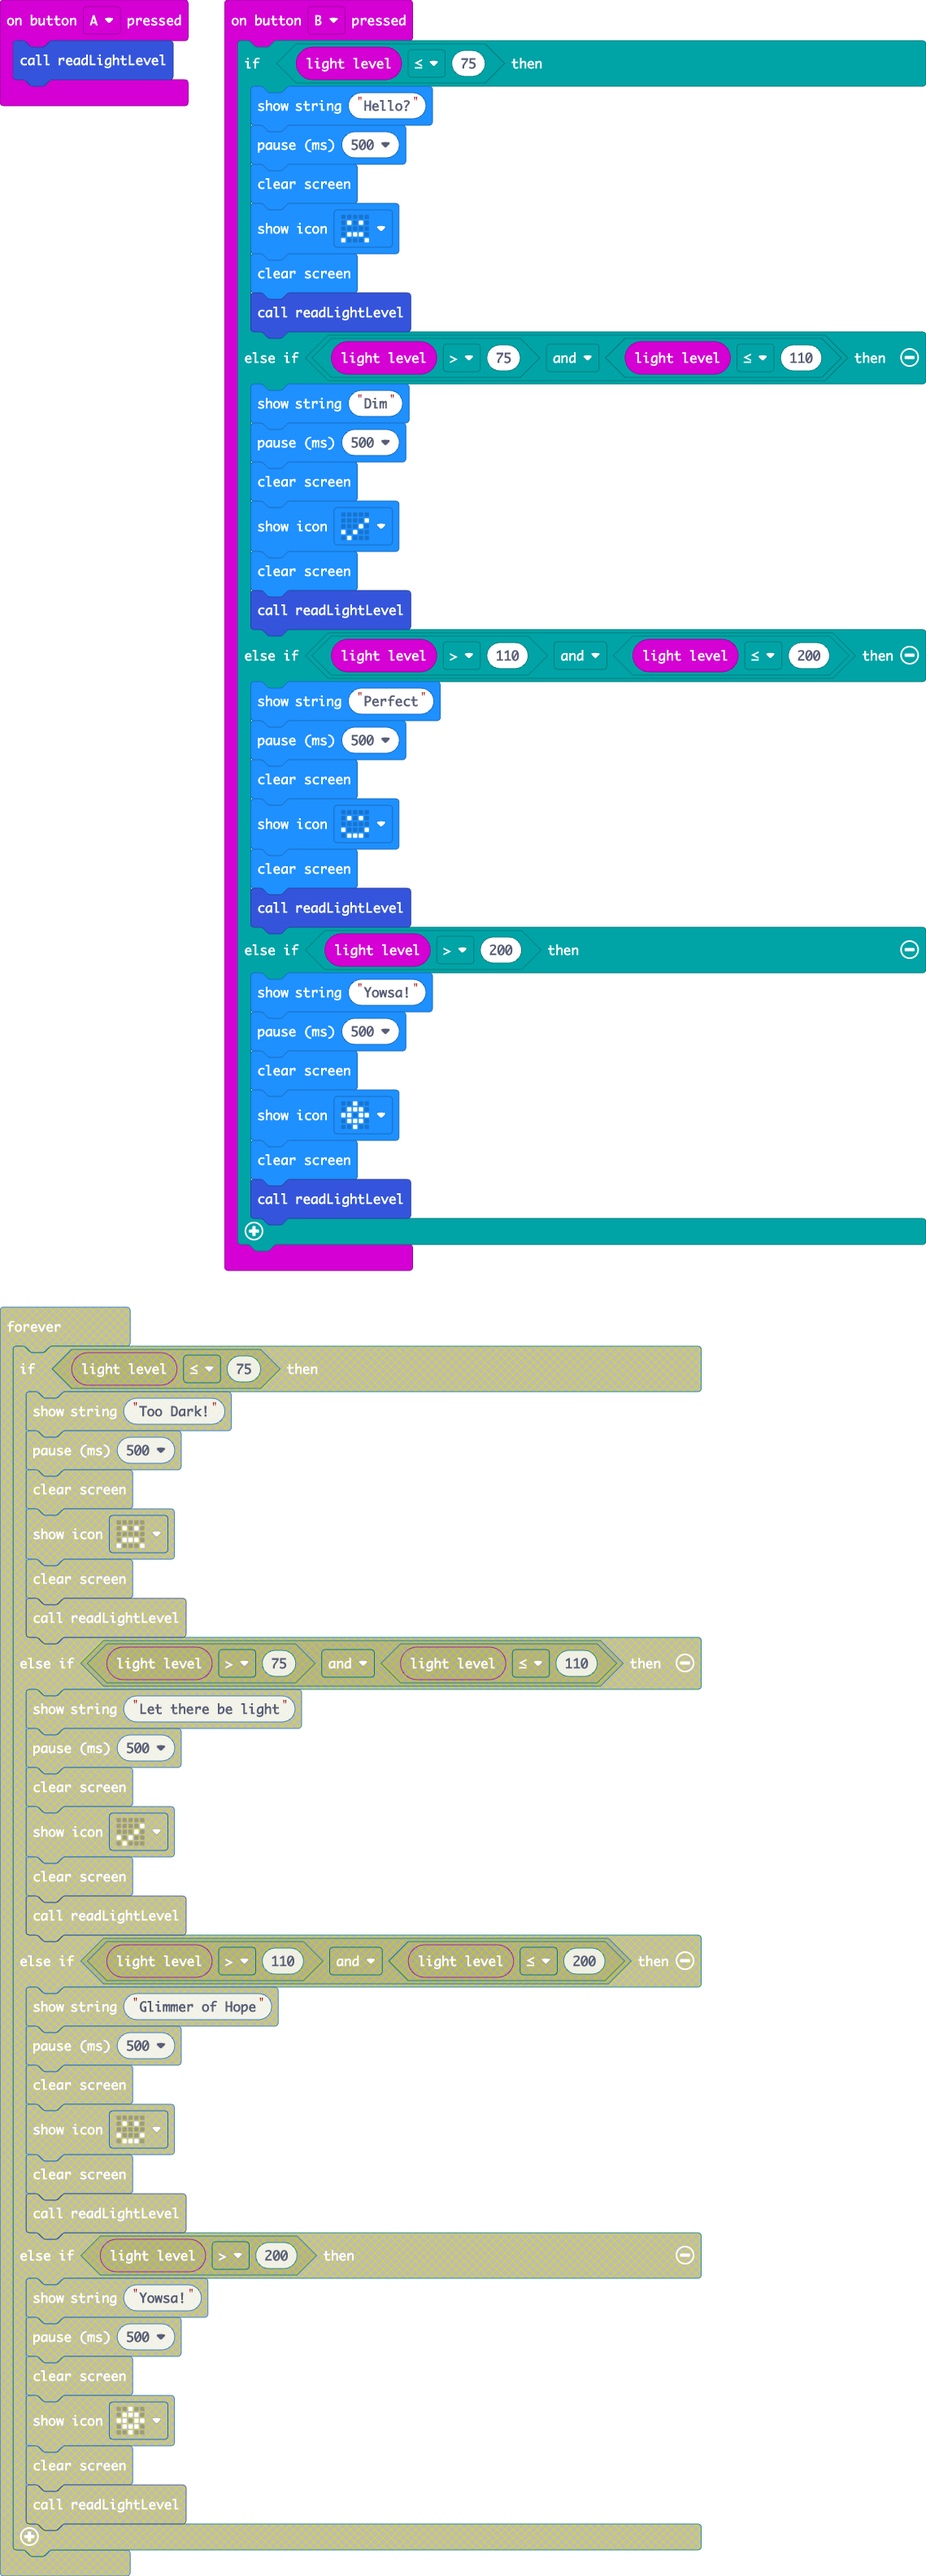
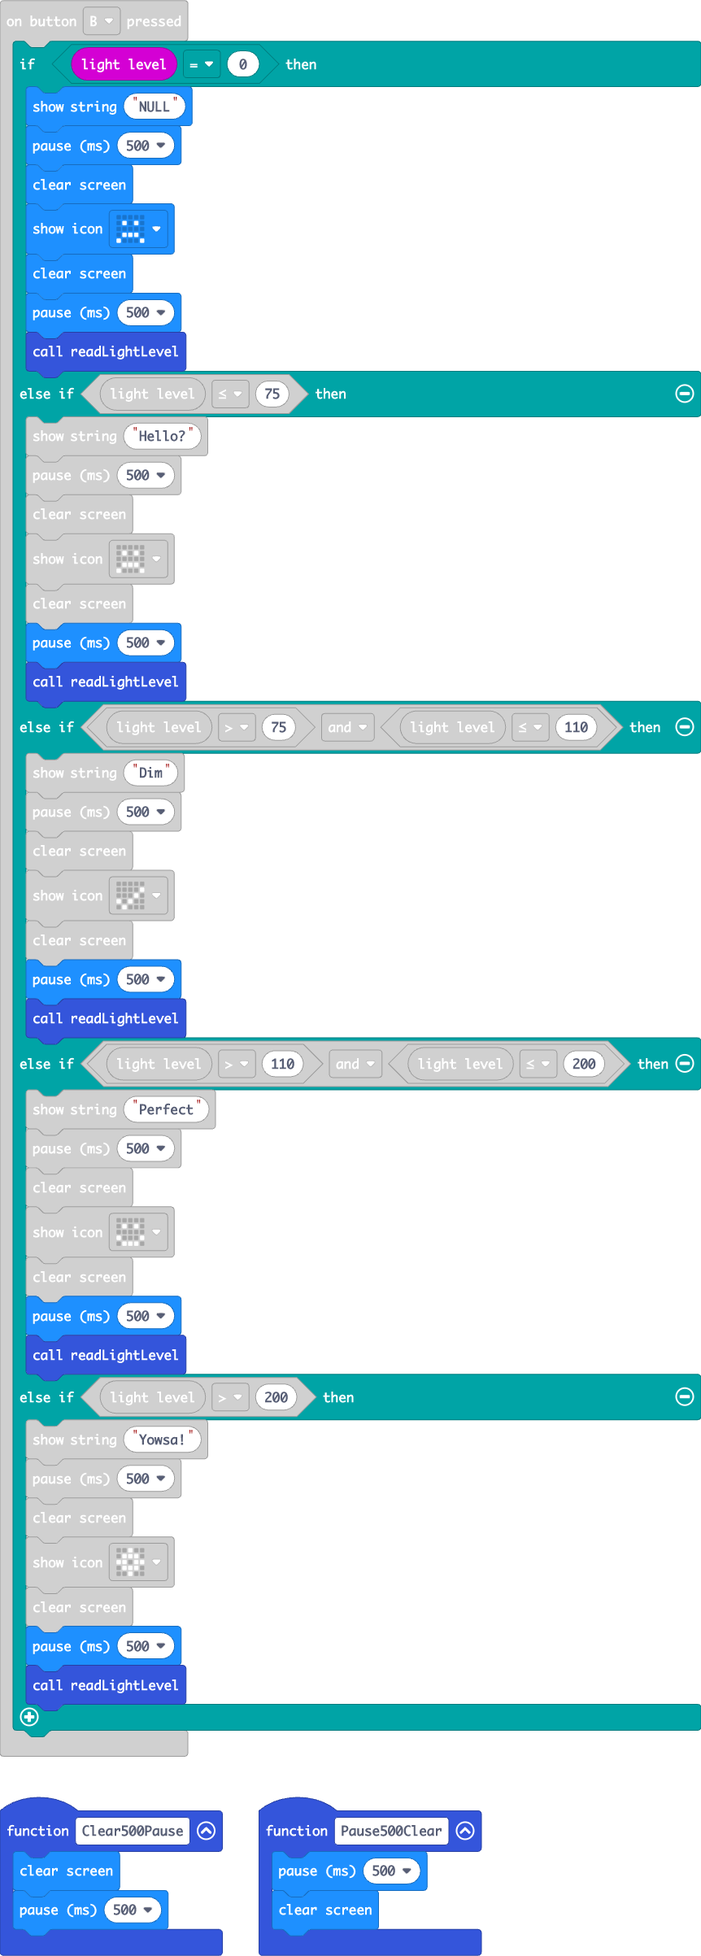
Update main.blocks, main.ts

diff --git a/main.ts b/main.ts
@@ -1,3 +1,7 @@
+function Pause500Clear () {
+    basic.pause(500)
+    basic.clearScreen()
+}
 function readLightLevel () {
     basic.pause(500)
     basic.showNumber(input.lightLevel())
@@ -8,12 +12,21 @@ input.onButtonPressed(Button.A, function () {
     readLightLevel()
 })
 input.onButtonPressed(Button.B, function () {
-    if (input.lightLevel() <= 75) {
+    if (input.lightLevel() == 0) {
+        basic.showString("NULL")
+        basic.pause(500)
+        basic.clearScreen()
+        basic.showIcon(IconNames.Sad)
+        basic.clearScreen()
+        basic.pause(500)
+        readLightLevel()
+    } else if (input.lightLevel() <= 75) {
         basic.showString("Hello?")
         basic.pause(500)
         basic.clearScreen()
         basic.showIcon(IconNames.Sad)
         basic.clearScreen()
+        basic.pause(500)
         readLightLevel()
     } else if (input.lightLevel() > 75 && input.lightLevel() <= 110) {
         basic.showString("Dim")
@@ -21,6 +34,7 @@ input.onButtonPressed(Button.B, function () {
         basic.clearScreen()
         basic.showIcon(IconNames.Yes)
         basic.clearScreen()
+        basic.pause(500)
         readLightLevel()
     } else if (input.lightLevel() > 110 && input.lightLevel() <= 200) {
         basic.showString("Perfect")
@@ -28,6 +42,7 @@ input.onButtonPressed(Button.B, function () {
         basic.clearScreen()
         basic.showIcon(IconNames.Happy)
         basic.clearScreen()
+        basic.pause(500)
         readLightLevel()
     } else if (input.lightLevel() > 200) {
         basic.showString("Yowsa!")
@@ -35,6 +50,11 @@ input.onButtonPressed(Button.B, function () {
         basic.clearScreen()
         basic.showIcon(IconNames.Target)
         basic.clearScreen()
+        basic.pause(500)
         readLightLevel()
     }
 })
+function Clear500Pause () {
+    basic.clearScreen()
+    basic.pause(500)
+}
